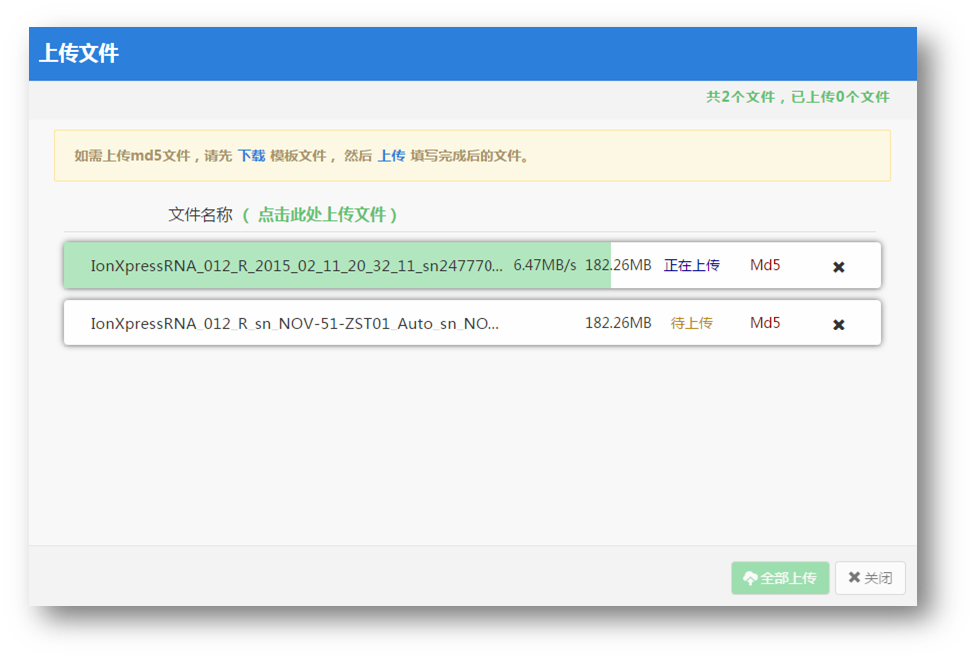
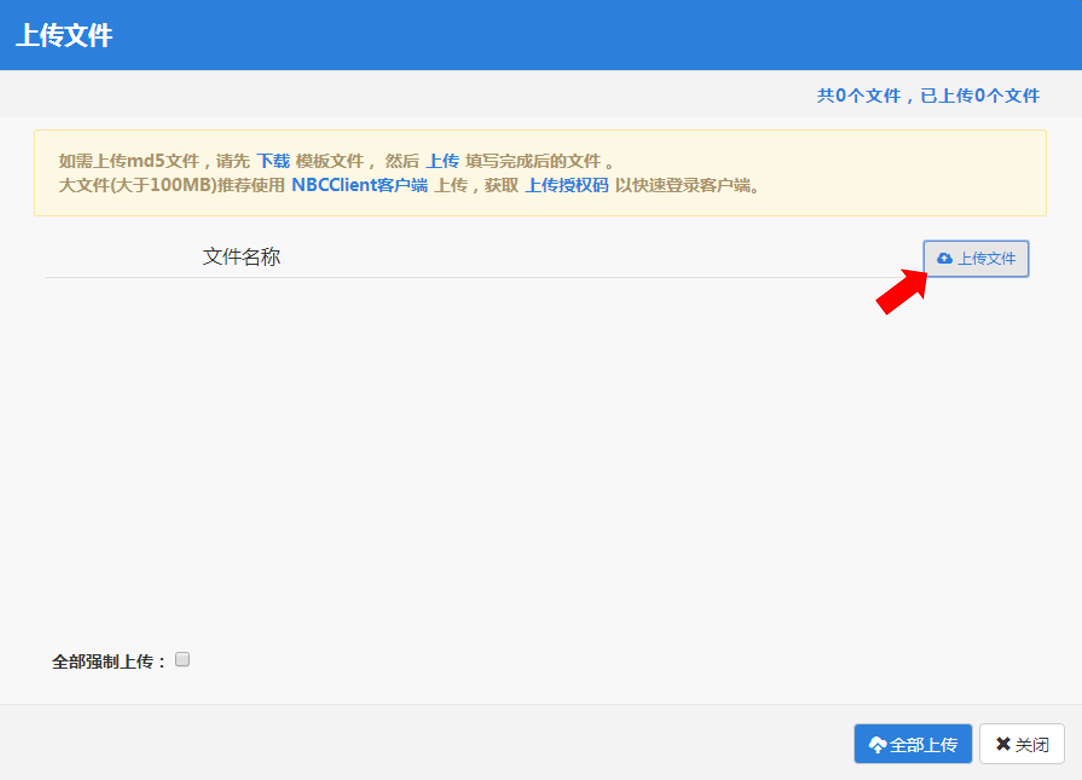
"this is a auto commit"

Changed region(s): [[0.0, 0.0, 1.0, 0.9985], [0.0615, 0.4841, 0.8914, 0.5446], [0.0307, 0.8169, 0.1537, 0.8775]]

diff --git a/docsite-file/001_帮助文档/02_项目操作/03_上传数据.md b/docsite-file/001_帮助文档/02_项目操作/03_上传数据.md
@@ -1,13 +1,14 @@
 ### ** 上传数据 ** 
-#### **1. 上传数据、匹配样品**
+　　小数据量可以通过网页版上传，数据较大时使用上传工具上传。
+#### **1. 网页上传**
 　　上传数据：点击“上传数据”跳出弹框后选择上传文件，如需上传md5 文件请先下载模板后再上传。md5码是对文件的编码，一般测序公司在交付结果时会附送md5码，用于校验测序数据是否完整 。具体流程如下：
 　　首先点击上传数据。
 <div style="text-align:center"><img data-src="9.png" width="600px" ></img>
 </div>
 　　跳出弹框后，点击上传文件，从文件夹中选择要上传文件。md5码为选择性上传，上传可点击“下载”模板后上传。如果数据过大，也可选择NBCClient客户端进行数据管理，详细使用见-- 数据管理软件NBCClient（[详细说明](filePage?path=001_帮助文档/02_项目操作/04_数据管理软件.md)）。
-<div style="text-align:center"><img data-src="10.png" width="600px" ></img>
-</div>　
-　　文件正在上传，如下图：
 <div style="text-align:center"><img data-src="11.png" width="600px" ></img></div>
+　　文件正在上传，如下图：
 
+
+#### **2.数据管理软件上传**
 
